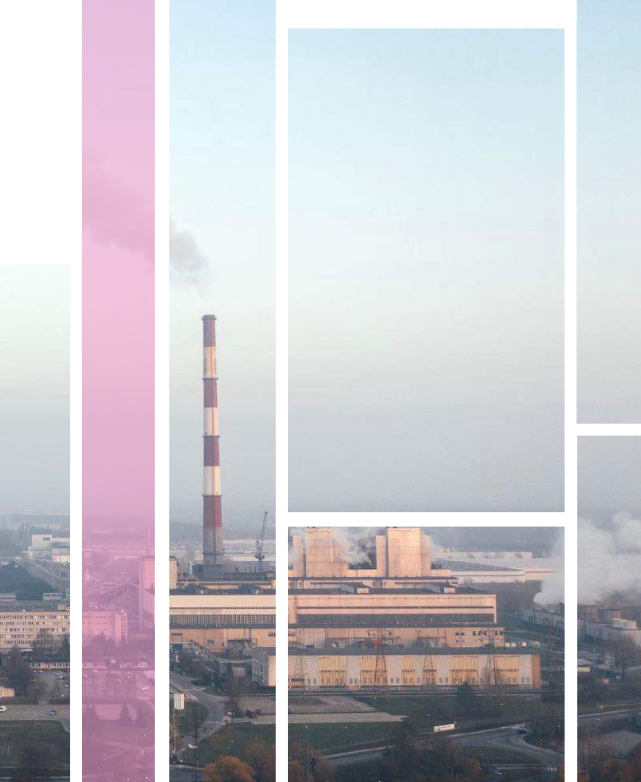
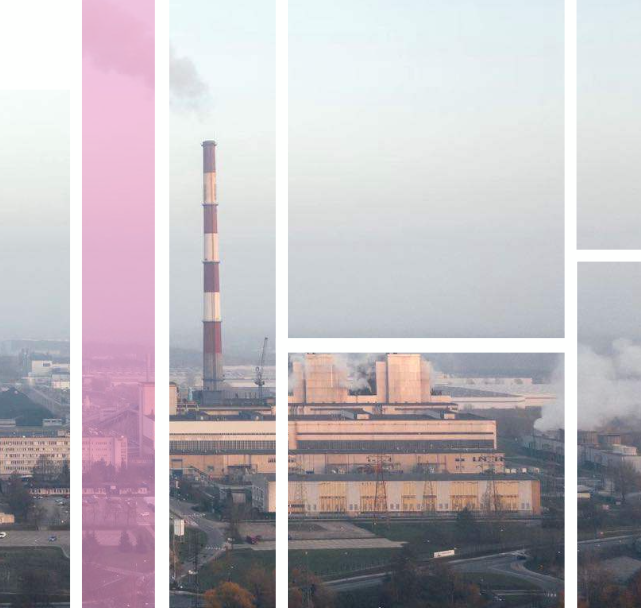
added two resources page; added video to landing page

diff --git a/themes/hugoplate/layouts/home.html b/themes/hugoplate/layouts/home.html
@@ -35,48 +35,70 @@
   <!-- /Banner -->
 
   <!-- Features -->
-  {{ range $i, $e:= .Params.features }}
-    <section class="section-sm {{ if (modBool $i 2) }}bg-gradient{{ end }}">
-      <div class="container">
-        <div class="row items-center justify-between">
-          <div
-            class="mb:md-0 {{ if not (modBool $i 2) }}
-              md:order-2
-            {{ end }} md:col-5 mb-6">
-            {{ partial "image" (dict "Src" .image "Alt" "feature image" "DisplayXL" "520x" "DisplayLG" "425x" "DisplayMD" "360x") }}
-          </div>
-          <div
-            class="{{ if not (modBool $i 2) }}
-              md:order-1
-            {{ end }} md:col-7 lg:col-6">
-            <h2 class="mb-4">
-              {{ .title | markdownify }}
-            </h2>
-            <p class="mb-8 text-lg">
-              {{ .content | markdownify }}
-            </p>
-            <ul>
-              {{ range .bulletpoints }}
-                <li class="relative mb-4 pl-6">
-                  <i class="fa fa-check absolute left-0 top-1.5"></i>
-                  {{ . | markdownify }}
-                </li>
-              {{ end }}
-            </ul>
-            {{ with .button }}
-              {{ if .enable }}
-                <a class="btn btn-primary mt-6" href="{{ .link | absURL }}">
-                  {{ .label }}
-                  <i class="fa fa-arrow-right pl-2"></i>
-                </a>
-              {{ end }}
-            {{ end }}
-          </div>
+ {{ range $i, $e := .Params.features }}
+  <section class="section-sm {{ if (modBool $i 2) }}bg-gradient{{ end }}">
+    <div class="container">
+      <div class="row items-center justify-between">
+
+        <div
+          class="mb:md-0 {{ if not (modBool $i 2) }}md:order-2{{ end }} md:col-5 mb-6">
+
+          {{ if .video_embed }}
+            <div class="w-full overflow-hidden rounded-lg shadow">
+              <iframe
+                class="w-full aspect-video"
+                src="{{ .video_embed }}"
+                title="{{ .title }}"
+                loading="lazy"
+                frameborder="0"
+                allow="accelerometer; autoplay; clipboard-write; encrypted-media; gyroscope; picture-in-picture; web-share"
+                referrerpolicy="strict-origin-when-cross-origin"
+                allowfullscreen>
+              </iframe>
+            </div>
+
+          {{ else if .image }}
+            {{ partial "image" (dict
+              "Src" .image
+              "Alt" "feature image"
+              "DisplayXL" "520x"
+              "DisplayLG" "425x"
+              "DisplayMD" "360x"
+            ) }}
+          {{ end }}
+
         </div>
+
+        <div
+          class="{{ if not (modBool $i 2) }}md:order-1{{ end }} md:col-7 lg:col-6">
+          <h2 class="mb-4">
+            {{ .title | markdownify }}
+          </h2>
+          <p class="mb-8 text-lg">
+            {{ .content | markdownify }}
+          </p>
+          <ul>
+            {{ range .bulletpoints }}
+              <li class="relative mb-4 pl-6">
+                <i class="fa fa-check absolute left-0 top-1.5"></i>
+                {{ . | markdownify }}
+              </li>
+            {{ end }}
+          </ul>
+          {{ with .button }}
+            {{ if .enable }}
+              <a class="btn btn-primary mt-6" href="{{ .link | absURL }}">
+                {{ .label }}
+                <i class="fa fa-arrow-right pl-2"></i>
+              </a>
+            {{ end }}
+          {{ end }}
+        </div>
+
       </div>
-    </section>
-  {{ end }}
-  <!-- /Features -->
+    </div>
+  </section>
+{{ end }}
 
   <!-- Testimonials -->
   {{ with site.GetPage "sections/testimonial" }}

diff --git a/content/english/air-detective-guide-for-parents.md b/content/english/air-detective-guide-for-parents.md
@@ -1,0 +1,28 @@
+---
+title: Air Detective Guide For Parents/Carer and Next Steps
+---
+
+## The Homework Sheet
+The Air Detective homework sheet is a fun activity for curious primary school children to learn more about air quality in their neighbourhood. As a parent, you can work together with your child to notice the causes of air pollution in your area, and initiatives that keep the air clean!
+
+{{< notice "Downloadable 01" >}}
+
+Download the homework sheet, [here](https://drive.google.com/file/d/1eUNNbvqT9eoJ2ba00wbAeRH-EdvTZ_t4/view?usp=drive_link).
+{{< /notice >}}
+
+## How to Help your Child?
+Here are some instructions on how to help your child:
+
+{{< image src="images/air-detective-parent-guide.png" caption="Air Detective Parents/Carer Guide" alt="alter-text" position="center" command="fill" option="q100" class="img-fluid" title="Air Detective Parents/Carer Guide" webp="false" >}}
+{{< notice "Downloadable 02" >}}
+
+Download the lesson guide, [here](https://drive.google.com/file/d/1KGSZIx1WJlHVUZKKAnRiPVp_mDKn_DvL/view?usp=sharing).
+{{< /notice >}}
+
+## Next Step: Share your experience
+If you enjoyed this activity and gathered data about your neighbourhood's air quality, consider using this template message to start a conversation in local Facebook/WhatsApp groups:
+
+{{< notice "info" >}}
+
+Template message
+{{< /notice >}}

diff --git a/content/english/lesson-guide-for-teachers.md b/content/english/lesson-guide-for-teachers.md
@@ -1,0 +1,17 @@
+---
+title: Lesson Guide For Parents
+---
+Created as part of Let's Raise Air-wareness campaign, the Air Detective homework sheet is a fun activity for curious primary school children to learn more about air quality in their neighbourhood. 
+
+{{< notice "Downloadable 01" >}}
+
+Download the homework sheet, [here](https://drive.google.com/file/d/1eUNNbvqT9eoJ2ba00wbAeRH-EdvTZ_t4/view?usp=drive_link).
+{{< /notice >}}
+
+There are various ways through which you can support your pupil. They are outlined in our lesson guide.
+
+{{< image src="images/air-detective-teacher-guide.png" caption="Air Detective Lesson Guide" alt="alter-text" position="center" command="fill" option="q100" class="img-fluid" title="Air Detective Lesson Guide" webp="false" >}}
+{{< notice "Downloadable 02" >}}
+
+Download the lesson guide, [here](https://drive.google.com/file/d/10TjEzAliRQmi5zQu27JZyBpuoJzIl4RQ/view?usp=sharing).
+{{< /notice >}}

diff --git a/content/english/_index.md b/content/english/_index.md
@@ -5,16 +5,24 @@ banner:
   content: "London's air pollution has reduced significantly over the years. Yet, many regions still need to withstand the impacts of air pollution. Air is Kin can help you to document your lived experience of the impacts of air pollution and connect you to communities that can provide support."
   image: "/images/air-is-kin-banner-2.png"
 
-
 # Features
 features:
   - title: "Become an Air Detective"
     image: "/images/air-pollution-design.png"
     content: "The Air Detective homework sheet is a fun activity for curious primary school children to learn more about air quality in their neighbourhood. As a parent, you can work together with your child to notice the causes of air pollution in your area, and initiatives that keep the air clean!"
+    video_embed: https://www.youtube.com/embed/ldxFjLJ3rVY?si=Bqnr9d6GB3ZLNZH
     button:
       enable: true
       label: "Help your child become an air detective"
-      link: "air-detective/"
+      link: "air-detective-guide/"
+
+  - title: "Try the Health Diary"
+    image: "/images/air-pollution-design.png"
+    content: "To take this activity further, and better understand how air pollution may be impacting your health, use the Air is Kin Health Diary to monitor your wellbeing."
+    button:
+      enable: true
+      label: "Health Diary"
+      link: "https://www.thecentriclab.com/air-is-kin/health-diary-info-guide"
 
   - title: "Join Communities In Your Area"
     image: "/images/communities.png"
@@ -26,9 +34,9 @@ features:
 
   - title: "Talk To Your GP"
     image: "/images/air-detective.jpg"
-    content: "Use the health diary to track your and your children's symptoms. Despite having this evidence, talking to GP might be challenging, here are some resources to help you."
+    content: "After doing the air detective activity and maintaining the health diary, you may want to talk to your GP about air pollution and its impacts on health. Despite having evidence, talking to GP might be challenging. Air is Kin has a useful resource written by doctors on how to talk to your GP about this."
     button:
       enable: true
       label: "Resources"
-      link: "talk-to-your-gp"
+      link: "https://www.thecentriclab.com/air-is-kin/approach-gp-ap-childhealth"
 ---

diff --git a/content/english/blog/_index.md b/content/english/blog/_index.md
@@ -1,5 +1,5 @@
 ---
 title: "Blog Posts"
 meta_title: ""
-description: "this is meta description"
+description: ""
 ---